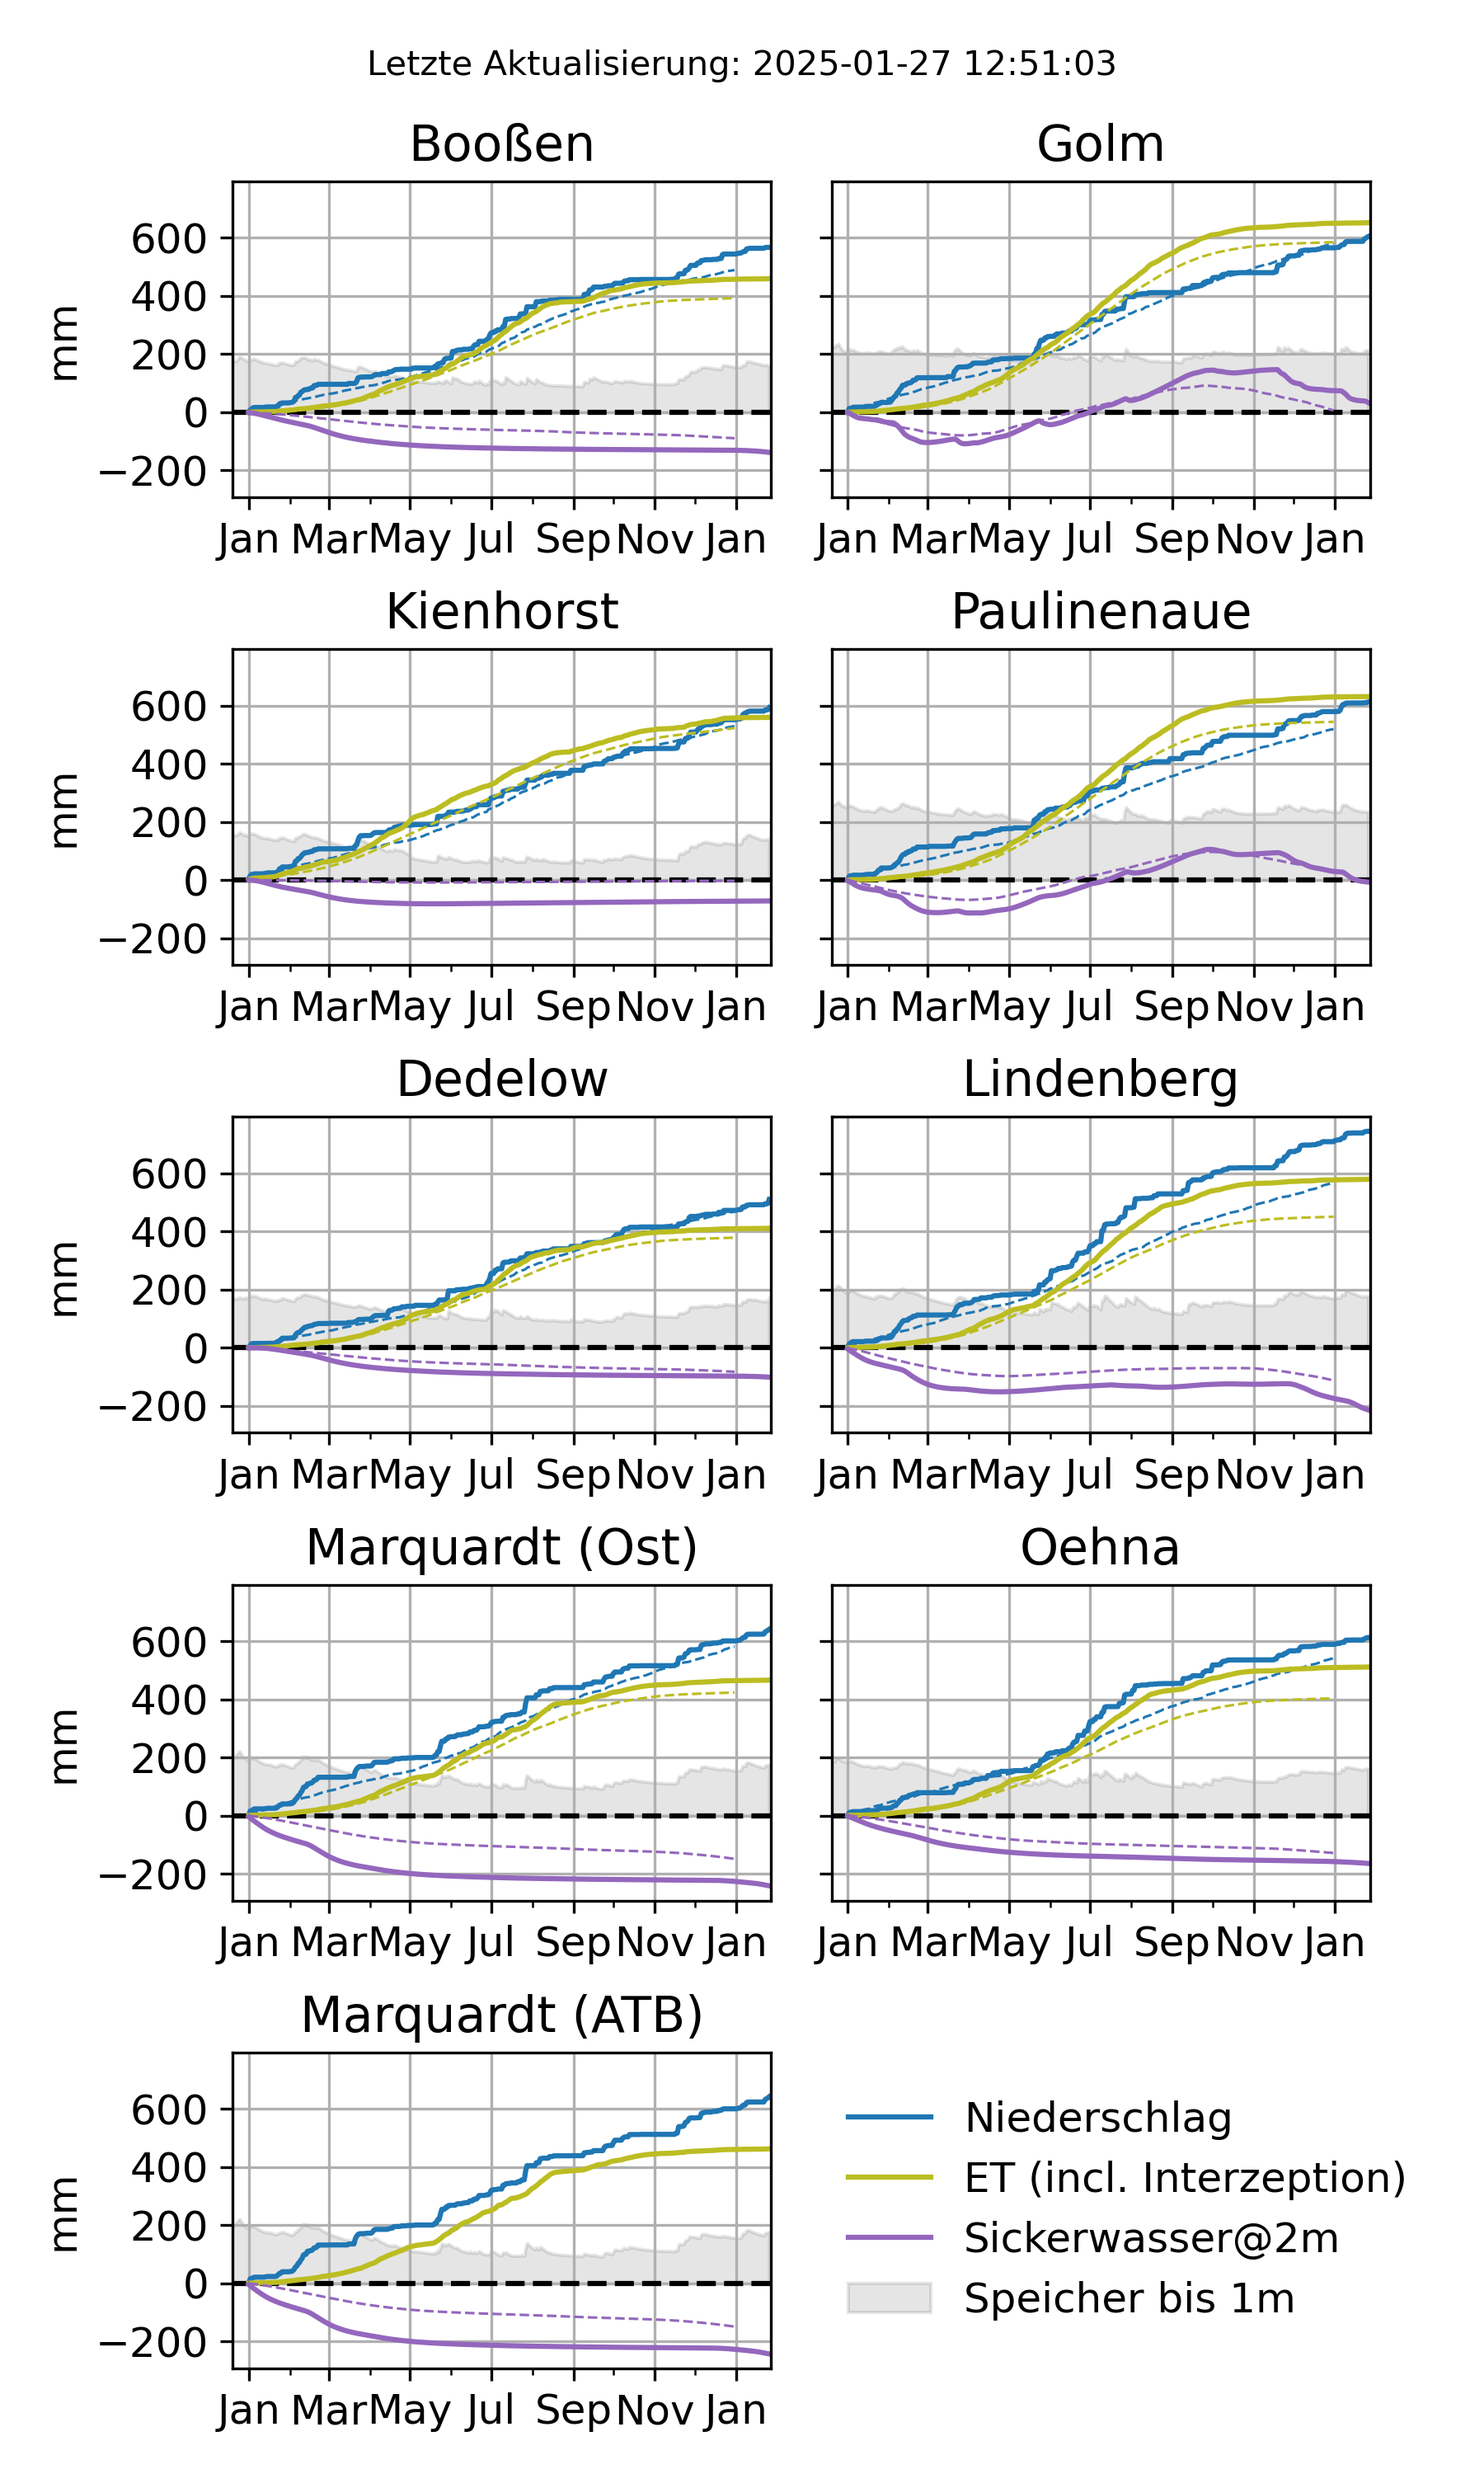
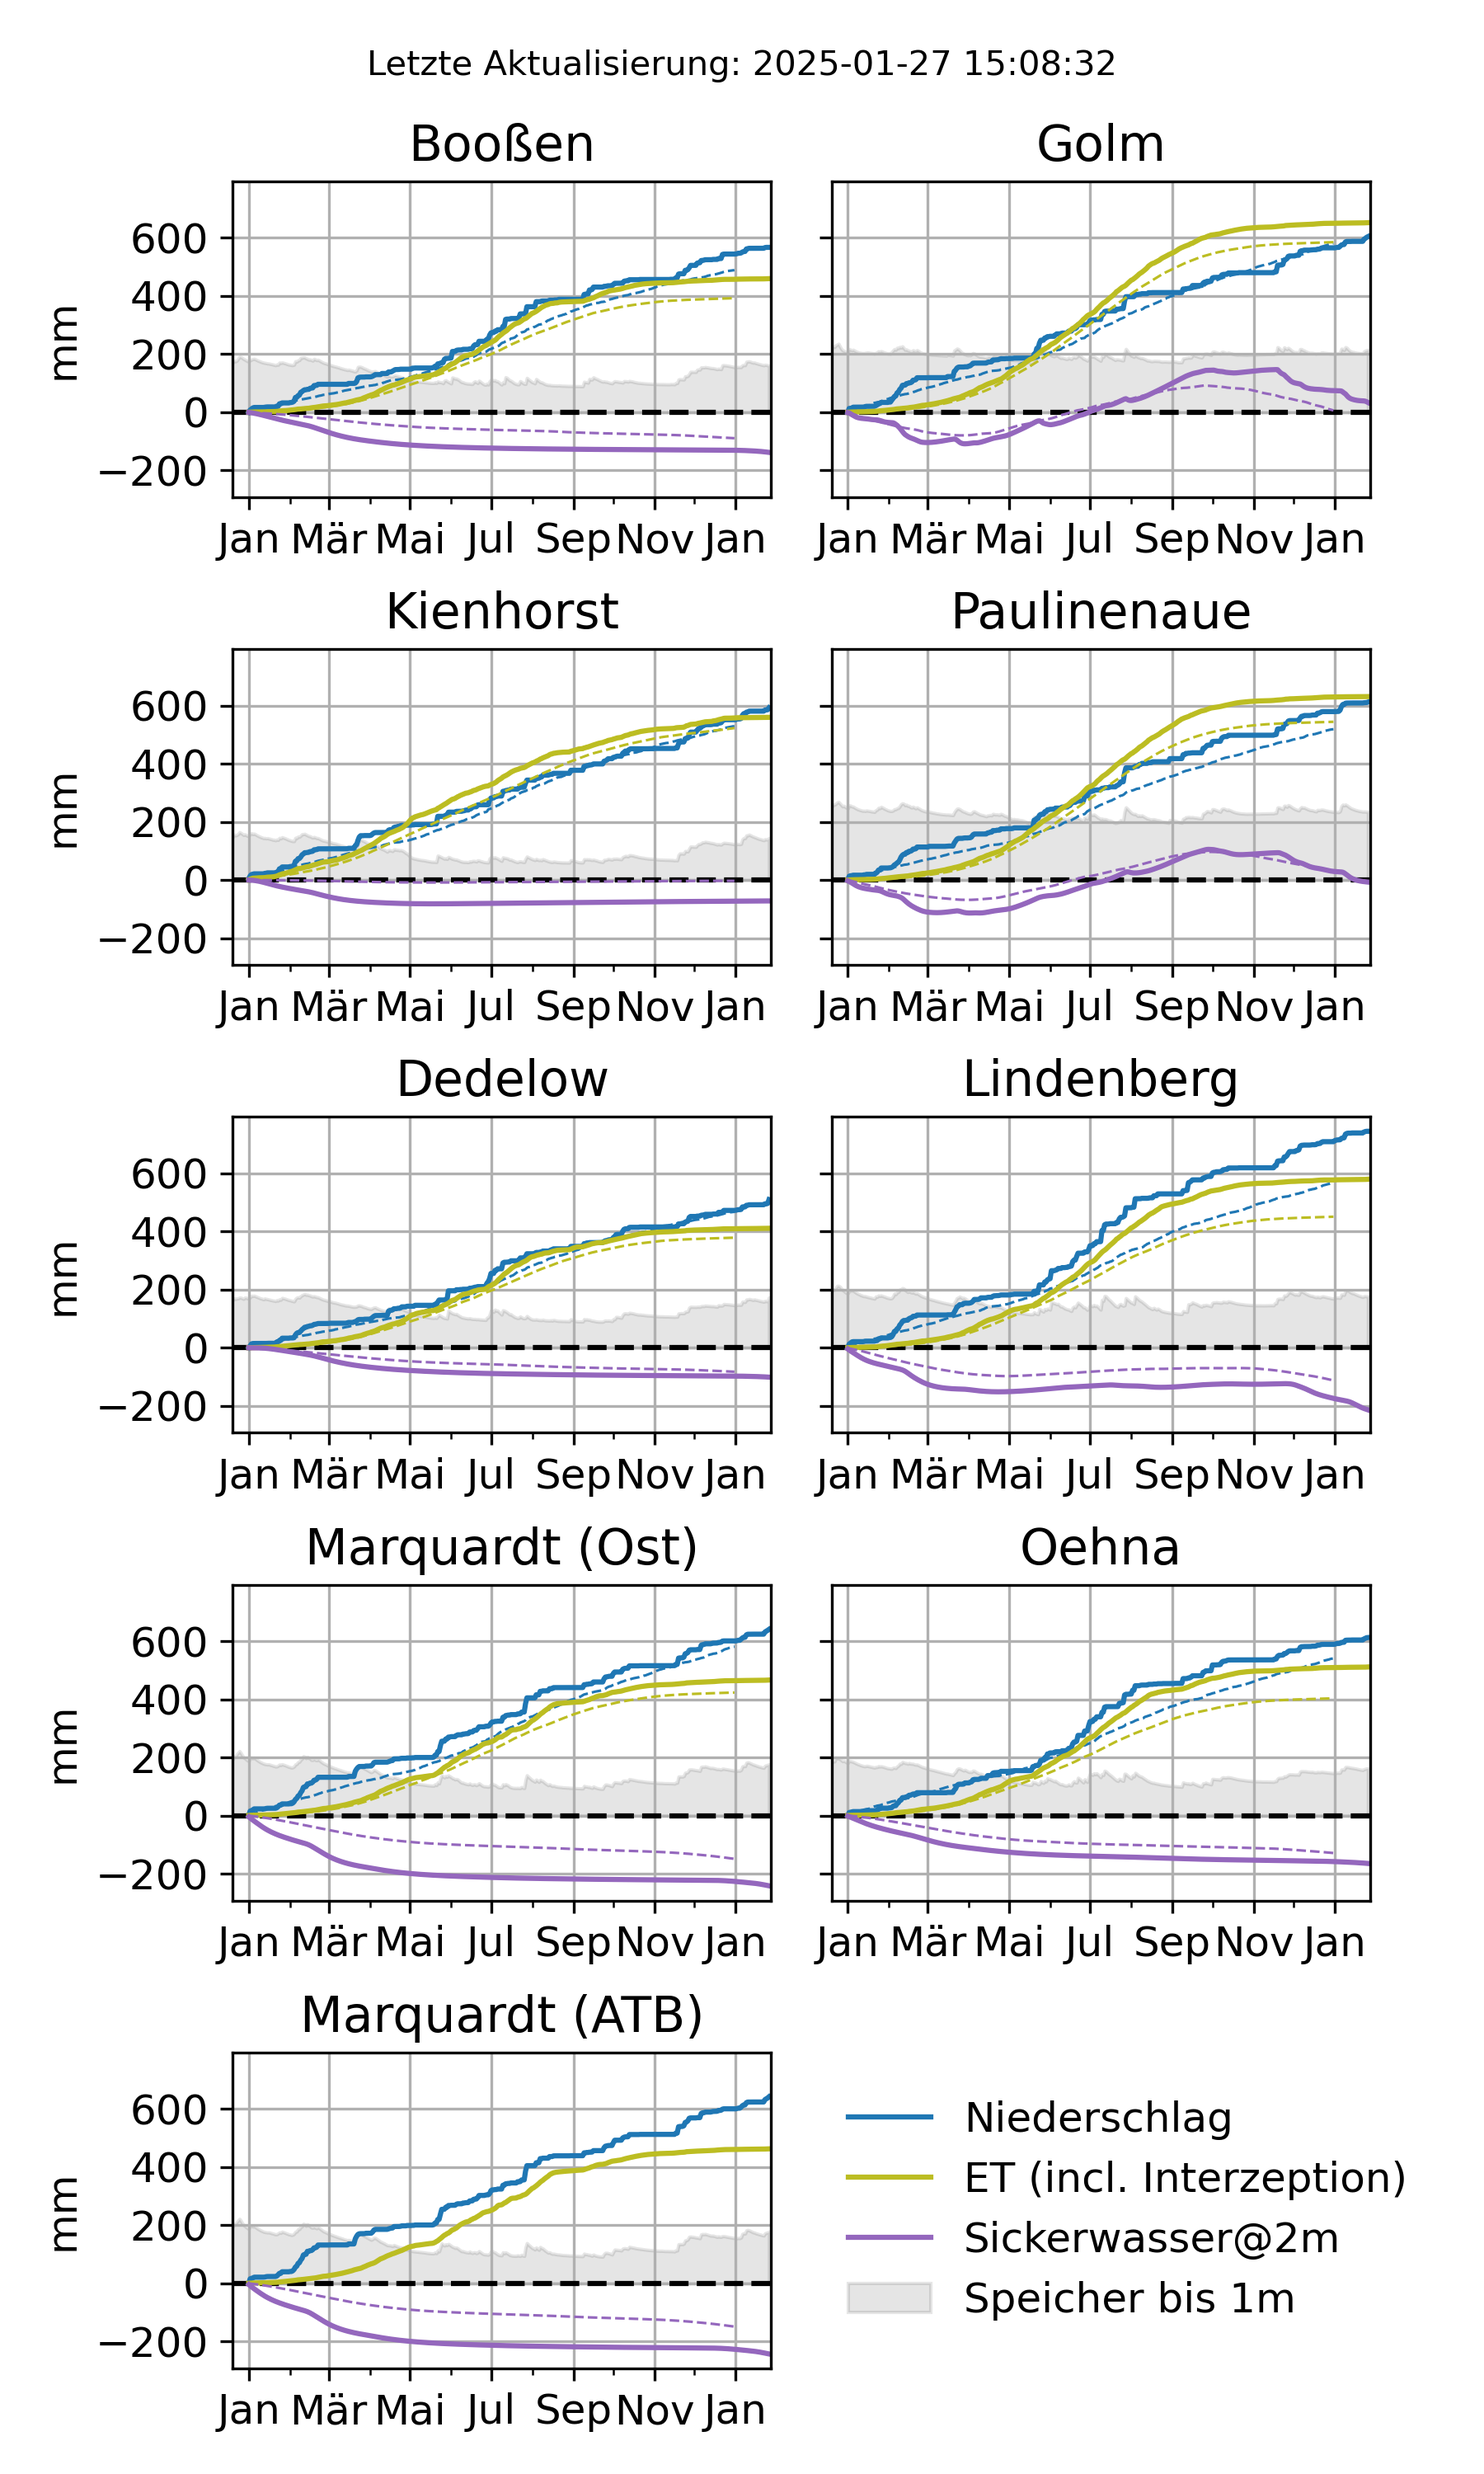
update monitor

diff --git a/gwr/index.md b/gwr/index.md
@@ -18,7 +18,7 @@ sowie dem Grundwasserflurabstand, welcher an grundwassernahen Standorten maßgeb
 **Disclaimer**: Die dargestellten Werte sind vorläufig. Sowohl die CRNS-basierte Schätzung der Bodenfeuchte als auch die SWAP-Modellierung 
 erfolgt noch mit default-Parametern. Die Seite dient bislang lediglich der Plausibilisierung und Validierung der Datenverarbeitung.
 
-**Aktualisierung ausgesetzt**: Aktuell gibt es für mehrere Sonden eine Störung der Datenfernübertragung (u.a. nach einer DoS-Attacke auf die Uni Potsdam) sowie der Integrität des Messsignals (Standorte Booßen und Golm). **Wir versuchen diese Störungen möglichst bald zu beheben. Bis dahin setzen wir die Aktualisierung dieser Seite aus.**
+Siehe ["Aktuelles"](https://cosmic-sense.github.io/brandenburg/aktuelles/) bzgl. aktueller Mitteilungen zum Netzwerkbetrieb.
 
 ![overview](https://raw.githubusercontent.com/cosmic-sense/brandenburg/main/gwr/bb-cluster-balance.png "Wasserbilanz")
 

diff --git a/monitoring/index.md b/monitoring/index.md
@@ -9,7 +9,7 @@ Die untenstehende Abbildung zeigt die zeitliche Dynamik der Bodenfeuchte (schwar
 
 **Disclaimer**: Alle Werte sind vorläufig. Sowohl die CRNS-basierte Schätzung der Bodenfeuchte als auch die SWAP-Modellierung erfolgt noch mit default-Parametern. Die Seite dient bislang nur der Plausibilisierung und Validierung der Datenverarbeitung.
 
-**Aktualisierung ausgesetzt**: Aktuell gibt es für mehrere Sonden eine Störung der Datenfernübertragung (u.a. nach einer DoS-Attacke auf die Uni Potsdam) sowie der Integrität des Messsignals (Standorte Booßen und Golm). **Wir versuchen diese Störungen möglichst bald zu beheben. Bis dahin setzen wir die Aktualisierung dieser Seite aus.**
+Siehe ["Aktuelles"](https://cosmic-sense.github.io/brandenburg/aktuelles/) bzgl. aktueller Mitteilungen zum Netzwerkbetrieb.
 
 ![overview](https://raw.githubusercontent.com/cosmic-sense/brandenburg/main/monitoring/bb-cluster-swc-series.png "Monitor")
 

diff --git a/aktuelles/index.md b/aktuelles/index.md
@@ -5,6 +5,10 @@ title: COSMOS-BB
 
 # Aktuelles
 
+### 2025-01-27
+
+Die Monitorseite wird nun wieder routinemäßig aktualisiert. Wir arbeiten weiter an der Schließung der entstandenen Datenlücke für den Standort Oehna. Zu diesem Zweck müssen zunächst die Daten von der SD-Karte der Sonde lokal ausgelesen werden.
+
 ### 2025-01-07
 
 Die Datenfernübertragung an den Standorten Marquardt (Ost), Marquardt (ATB) und Oehna läuft wieder. Wir arbeiten daran, die entstandenen Datenlücken im Monitor schrittweise zu schließen.
